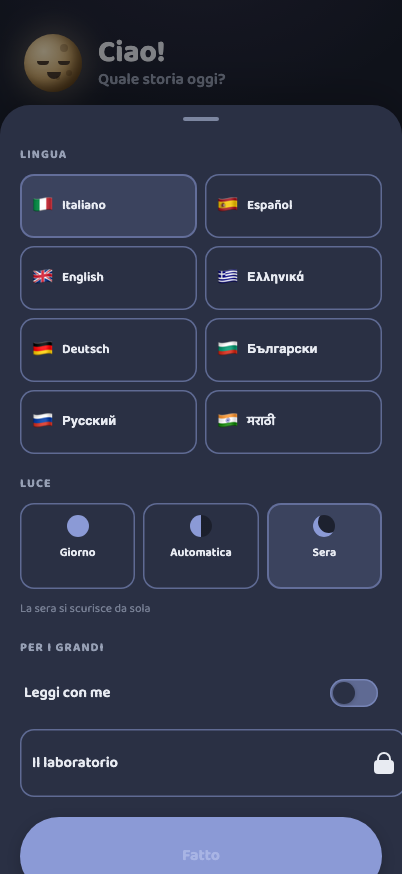
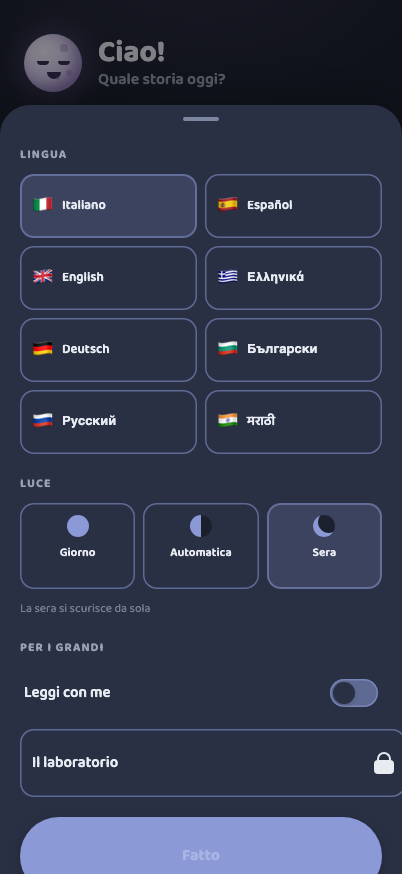
fix(shelf): orchid moon + token-driven shelf chrome, no warm remnants (AI-453)
The dusk mascot was still a gold/brown moon (the handoff's and the
landing's is orchid), and the settings dots, language sticker and empty
shelf carried honey/parchment literals and two undefined tokens with warm
fallbacks. Moon colours become shared tokens (--moon-*; landing uses them
too); the rest maps to --primary/--info rings, --ghost, --ink, --accent-22.
e2e guards the dusk shelf chrome against the retired warm values.

Changed region(s): [[0.0597, 0.0309, 0.209, 0.1236]]

diff --git a/src/static/css/player.css b/src/static/css/player.css
@@ -173,10 +173,16 @@ button.presses:active {
 
 /* Dusk: sphere-lit moon — radial highlight from upper-left, terminator shadow */
 [data-theme="dusk"] .mascot {
-  background: radial-gradient(circle at 34% 30%, #f7e7c3 0%, #d4ae70 50%, #8a6530 85%, #5c421e 100%);
+  background: radial-gradient(circle at 34% 30%, var(--moon-light), var(--moon-mid) 52%, var(--accent) 100%);
   box-shadow:
-    0 0 28px 8px rgba(242, 216, 167, 0.22),
-    inset -7px -5px 14px rgba(40, 20, 0, 0.55);
+    0 0 26px 7px var(--accent-22),
+    inset -7px -5px 14px var(--moon-shade);
+}
+
+[data-theme="dusk"] .mascot::before,
+[data-theme="dusk"] .mascot::after,
+[data-theme="dusk"] .mascot .smile {
+  background: var(--moon-ink);
 }
 
 /* Moon eyes — narrow slit at dusk */
@@ -207,7 +213,7 @@ button.presses:active {
 [data-theme="dusk"] .mascot .crater-a,
 [data-theme="dusk"] .mascot .crater-b,
 [data-theme="dusk"] .mascot .crater-c {
-  background: rgba(40, 20, 0, 0.22);
+  background: var(--moon-crater);
 }
 
 .covers {
@@ -239,13 +245,13 @@ button.presses:active {
   width: 72px;
   height: 72px;
   border-radius: 50% 42% 50% 40%;
-  background: var(--accent-warm, #e8c4a0);
+  background: var(--accent-22);
   opacity: 0.5;
 }
 
 .empty-shelf-text {
   font-size: 1.1rem;
-  color: var(--text-soft, #8a82a0);
+  color: var(--ink-soft);
   margin: 0;
   line-height: 1.5;
 }
@@ -448,7 +454,7 @@ button.presses:active {
   border-radius: 50% 50% 46% 54% / 54% 46% 50% 50%;
   background: var(--sticker);
   transform: rotate(-2deg);
-  box-shadow: 0 8px 18px rgba(74, 59, 46, 0.14), 0 0 0 4px rgba(224, 166, 63, 0.25);
+  box-shadow: var(--btn-shadow), 0 0 0 4px var(--primary-16);
   display: flex;
   align-items: center;
   justify-content: center;
@@ -497,14 +503,14 @@ button.presses:active {
 @media (hover: hover) {
   .settings-gear:hover {
     transform: rotate(-2deg) scale(1.06);
-    box-shadow: 0 10px 22px rgba(74, 59, 46, 0.2), 0 0 0 4px rgba(224, 166, 63, 0.35);
+    box-shadow: var(--btn-shadow), 0 0 0 4px var(--primary-ring);
   }
 }
 
 [data-theme="dusk"] .settings-gear {
-  background: rgba(243, 233, 218, 0.08);
-  box-shadow: inset 0 0 0 2px rgba(245, 223, 174, 0.3), 0 0 24px rgba(245, 223, 174, 0.1);
-  color: #f3e9da;
+  background: var(--ghost);
+  box-shadow: inset 0 0 0 2px var(--primary-ring), 0 0 24px var(--primary-16);
+  color: var(--ink);
 }
 
 /* ── Settings sheet (bottom sheet, replaces centred panel) ────────── */
@@ -944,7 +950,7 @@ button.presses:active {
   border-radius: 50% 46% 54% 50% / 50% 54% 46% 50%;
   background: var(--sticker);
   transform: rotate(2deg);
-  box-shadow: 0 8px 18px rgba(74, 59, 46, 0.14), 0 0 0 4px rgba(127, 166, 168, 0.25);
+  box-shadow: var(--btn-shadow), 0 0 0 4px var(--info-20);
   display: flex;
   align-items: center;
   justify-content: center;
@@ -966,13 +972,13 @@ button.presses:active {
 @media (hover: hover) {
   .lang-sticker:hover {
     transform: rotate(2deg) scale(1.06);
-    box-shadow: 0 10px 22px rgba(74, 59, 46, 0.2), 0 0 0 4px rgba(127, 166, 168, 0.35);
+    box-shadow: var(--btn-shadow), 0 0 0 4px var(--info-ring);
   }
 }
 
 [data-theme="dusk"] .lang-sticker {
-  background: rgba(243, 233, 218, 0.08);
-  box-shadow: inset 0 0 0 2px rgba(127, 166, 168, 0.3), 0 0 24px rgba(127, 166, 168, 0.1);
+  background: var(--ghost);
+  box-shadow: inset 0 0 0 2px var(--info-ring), 0 0 24px var(--info-20);
 }
 
 [data-theme="dusk"] .lang-sticker-label {

diff --git a/tests/e2e/tokens.spec.js b/tests/e2e/tokens.spec.js
@@ -50,3 +50,20 @@ test("dusk shelf is painted from the indigo tokens, not the retired warm browns"
   expect(fade).toContain("rgb(28, 33, 48)");
   expect(caption).toBe("rgb(151, 160, 181)"); // --ink-soft dusk #97A0B5
 });
+
+test("dusk shelf chrome — moon, settings, language sticker — carries no warm literals", async ({ page }) => {
+  await page.goto("/play?lang=it&theme=dusk");
+  await page.waitForSelector(".shelf .cover");
+  const styles = await page.evaluate(() =>
+    [".mascot", ".settings-gear", ".lang-sticker"].map((sel) => {
+      const cs = getComputedStyle(document.querySelector(sel));
+      return `${sel} ${cs.backgroundImage} ${cs.backgroundColor} ${cs.boxShadow} ${cs.color}`;
+    }),
+  );
+  // The orchid moon from the handoff: #F2EDFB highlight.
+  expect(styles[0]).toContain("rgb(242, 237, 251)");
+  // Retired warm-palette values: honey, cream glow, parchment, browns.
+  for (const s of styles)
+    for (const warm of ["224, 166, 63", "245, 223, 174", "243, 233, 218", "212, 174, 112", "74, 59, 46"])
+      expect(s, s).not.toContain(warm);
+});

diff --git a/src/static/css/landing.css b/src/static/css/landing.css
@@ -114,8 +114,8 @@ body {
   flex: none;
   overflow: hidden;
   border-radius: 50%;
-  background: radial-gradient(circle at 34% 30%, #F2EDFB, #D6CBF0 52%, var(--accent) 100%);
-  box-shadow: inset -4px -3px 8px rgba(74, 58, 112, 0.4);
+  background: radial-gradient(circle at 34% 30%, var(--moon-light), var(--moon-mid) 52%, var(--accent) 100%);
+  box-shadow: inset -4px -3px 8px var(--moon-shade);
 }
 .l-moon-crater {
   position: absolute;
@@ -130,7 +130,7 @@ body {
   width: 6px;
   height: 2.5px;
   border-radius: 0 0 6px 6px;
-  background: #3A2F55;
+  background: var(--moon-ink);
 }
 .l-moon-eye-l { left: 7px; }
 .l-moon-eye-r { right: 9px; }
@@ -142,7 +142,7 @@ body {
   width: 8px;
   height: 4px;
   border-radius: 0 0 8px 8px;
-  background: #3A2F55;
+  background: var(--moon-ink);
 }
 
 /* Hero art: watercolor image, softened into the surface with a vignette */

diff --git a/src/static/css/tokens.css b/src/static/css/tokens.css
@@ -30,6 +30,13 @@
   --fade: 900ms ease;
   --fade-quick: 600ms ease;
   --settle: 250ms ease;
+
+  /* The mascot moon (handoff): orchid-lit sphere, same in both modes. */
+  --moon-light:  #F2EDFB;
+  --moon-mid:    #D6CBF0;
+  --moon-ink:    #3A2F55;
+  --moon-crater: rgba(112,92,158,.3);
+  --moon-shade:  rgba(74,58,112,.4);
 }
 
 /* ═══════════════════════════════════════════════════════════════════
